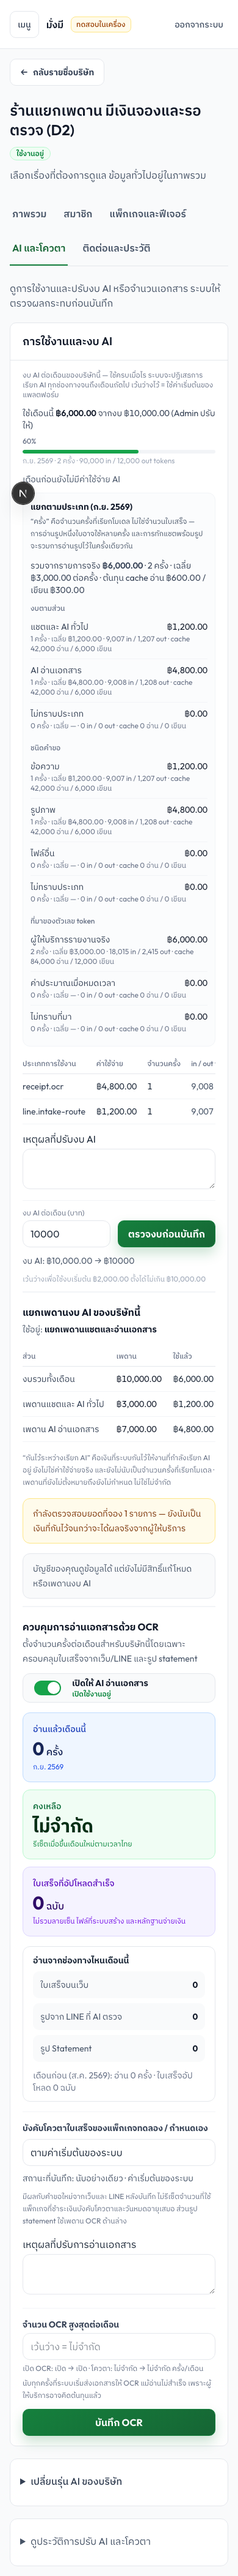
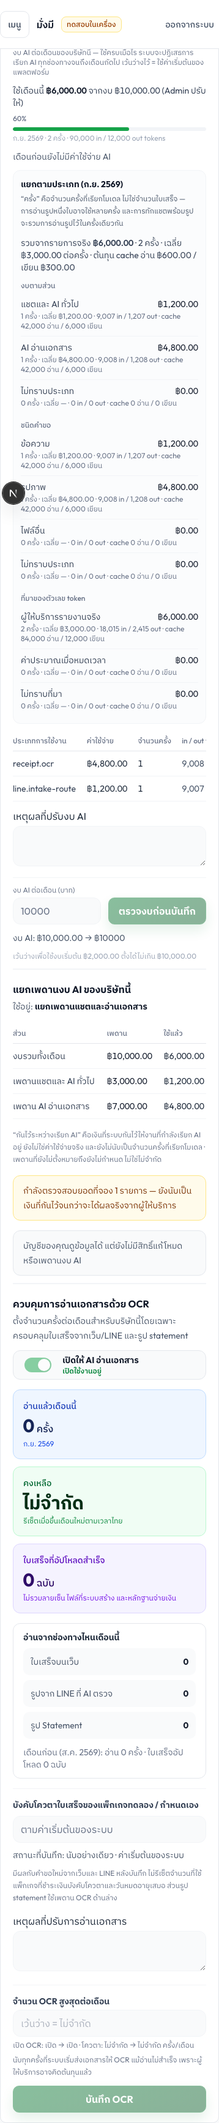
docs(ai-budget): rebuild the D2 evidence and tick R-08
Element screenshots instead of full pages: 34 files / 4.0 MB for 17 subjects,
against 22 files / 8.5 MB for 11 before — a full-page shot of this card was
~400 KB of mostly empty column.

Five new subjects, all saved through the real writer, close R-08's remaining
clauses: a cap of 0 (the CAP reads "ปิดส่วนนี้ (0 บาท)" while the money left in
that share reads ฿0.00), cancel-pending, the audit list after a schedule, an
edit of it and a cancellation, a DISABLED company, and a bucket spent to the
satang. `shared-breakdown` is D-01's web half on its own.

Where a photograph cannot prove something, the run asserts it: every control on
the card being genuinely disabled for a read-only operator and for a locked
company (with a manager on an ACTIVE company as the control case), the second
tab really moving the CAS revision, and an unsaved draft moving no saved number.

R-08 ticked with each clause named against its artifact. D-03 stays open for
loading/error/retry and company switch — pre-existing behaviour D2 did not
touch — while its tenant-API clause now rests on a real DenyByDefaultGuard
assertion. R-10 stays open on "active holds" for the billing warnings, which is
an owner call. The plan no longer claims the consumers' specs were untouched:
two harnesses were extended and gained cases, though no existing assertion
changed.

diff --git a/docs/qa/evidence/ai-budget-split-2026-09-17/README.md b/docs/qa/evidence/ai-budget-split-2026-09-17/README.md
@@ -3,12 +3,19 @@
 Phase D2 of the [LINE-AI ledger/lifecycle remediation](../../../specs/line-ai-ledger-lifecycle-remediation-spec-th.md)
 (§11.3, §12.4, §12.5; acceptance D-01, D-03, R-08). Real HTTP, real DOM, real screenshots — nothing
 below is mocked: every number came out of Postgres through the NestJS route and was rendered by the
-Next.js page.
+Next.js page, and the subjects that change something really did save through
+`PUT /v1/system/partners/:id/ai-model`.
 
-- Commit: `2cc26df96bcf337c3687a614fc4350db9befb041` (branch `codex/line-ai-remediation-d2-split-admin-ui-20260917`)
-- Captured with Playwright + chromium at **1440 px** and **390 px** (the mobile-first width).
-  Every 390 px capture also asserts `scrollWidth - clientWidth <= 1`, so a bundle can never contain
-  a screenshot of a page that scrolls sideways.
+- Commit: `468eded254715f439487fc8a614f5c57dbdb634d` (branch `codex/line-ai-remediation-d2-split-admin-ui-20260917`)
+- Playwright + chromium, **17 subjects × 1440 px and 390 px**. These are **element** screenshots (the
+  AI budget card, the split panel, the breakdown section or the audit list), not full pages: a
+  full-page shot of this card is ~400 KB of mostly empty column.
+- Every 390 px capture asserts `scrollWidth - clientWidth <= 1`, so the bundle cannot contain a
+  screenshot of a page that scrolls sideways.
+- Several subjects assert rather than photograph, because a photograph cannot prove them: an unsaved
+  draft not moving a saved number, every control on the card being genuinely `disabled`
+  (`disabled:opacity-50` still photographs as a coloured button), and the second tab actually moving
+  the CAS revision.
 - No cloud, no LINE, no AI provider: no model is configured in the stack below, so no provider call
   is reachable. No real tenant, person or LINE id appears in any image.
 - `AI_BUDGET_SPLIT_ACTIVATION_ENABLED=true` existed ONLY in the environment of the throwaway API
@@ -20,27 +27,38 @@ Each subject has a `-1440.png` and a `-390.png`.
 
 | Subject | Proves |
 | --- | --- |
-| `shared-no-split` | A `SHARED` company: mode "งบรวมก้อนเดียว", per-scope table with both bucket caps as "ยังไม่ตั้ง" (not "unlimited"), and the D1 breakdown with its partial-coverage and estimated-token notes above it |
+| `shared-no-split` | A `SHARED` company: mode "งบรวมก้อนเดียว", the per-scope table, both bucket caps as "ยังไม่ตั้ง" and their money left as "ตามงบรวม" (neither reads as "unlimited" nor as a forgotten setting) |
+| `shared-breakdown` | **D-01's web half**: total, byBudgetBucket, byRequestKind, byUsageBasis, per-call averages, cache cost both priced and "ไม่มีข้อมูล", the partial-coverage note and the cost-adjustment line that is not counted as a call |
 | `pending-next-month` | A `SPLIT` policy scheduled for the next Bangkok month, shown as "เริ่มเดือน …" in its own box, separate from "ใช้อยู่", with the cancel action beside it |
-| `split-no-usage` | `SPLIT` active this month on a company with no usage and no holds: both caps shown, available equal to the cap |
-| `split-reserved-unresolved` | spent / reserved / available per scope, reserved labelled "กันไว้ระหว่างเรียก AI" with the line saying it is not spend and not a provider call, plus "กำลังตรวจสอบยอดที่จอง 1 รายการ" |
-| `policy-invalid` | `SPLIT_EXCEEDS_TOTAL` (caps ฿9,000 + ฿7,000 against a ฿10,000 total) as a red notice that says AI is refused for this company and exactly what to fix |
+| `split-no-usage` | `SPLIT` active this month on a company with no usage and no holds: both caps shown, money left equal to the cap |
+| `split-reserved-unresolved` | spent / reserved / available per scope, reserved labelled "กันไว้ระหว่างเรียก AI" with the line saying it is neither spend nor a provider call, plus "กำลังตรวจสอบยอดที่จอง 1 รายการ" |
+| `bucket-exhausted` | The OCR share spent to the satang: cap ฿7,000.00 and **money left ฿0.00**. An exhausted bucket is not a cap of 0 — the two labels are different facts |
+| `policy-invalid` | `SPLIT_EXCEEDS_TOTAL` (฿9,000 + ฿7,000 against a ฿10,000 total) as a red notice saying AI is refused for this company and exactly what to fix |
 | `breach-flag` | An actual settled above its reserved bound: the operator is told the scope is closed, the full actual is kept, and to check before changing caps |
-| `validation-caps-exceed-total` | `C + O > T` refused client-side against the **saved** total, before any request — and the saved numbers above did not move with the unsaved draft (asserted, not just photographed) |
+| `validation-caps-exceed-total` | `C + O > T` refused client-side against the **saved** total, before any request — and the saved numbers above did not move with the unsaved draft (asserted) |
 | `server-refusal-thai` | A real writer refusal (`partner_ai_budget_cap_below_bucket_spend`, lowering the OCR cap under what that bucket already spent) rendered in Thai through `translateApiError` |
-| `conflict-409-after-second-tab` | A second tab saved first, so this page's `expectedBudgetRevision` was stale: 409, the page reloads the saved state, then tells the operator to re-check |
+| `conflict-409-after-second-tab` | A second tab saved first (asserted to have moved the revision), so this page's `expectedBudgetRevision` was stale: 409, the page reloads the saved state, then tells the operator to re-check |
+| `zero-cap-saved` | **R-08**: a cap of `0` saved through the real page. The CAP reads "ปิดส่วนนี้ (0 บาท)" while the money left in that share reads ฿0.00 |
+| `pending-cancelled` | **R-08**: `budgetPolicy: null` through the real page — the scheduled box is gone and the active policy is untouched |
+| `audit-history` | **R-08**: the audit list after three real saves — a scheduled policy, an edit of it, and a cancellation — each a readable Thai before/after pair |
+| `locked-company` | A `DISABLED` company: the panel names the **company status** as the reason, and the total-budget form, the OCR form and the split form on the same card are all read-only (asserted) |
+| `read-only-operator` | A platform operator holding `system.partner_dashboard.read` but **not** `system.partner_ai_model.manage`: every number is readable while all three forms are read-only, and the sentence names the **permission** (asserted) |
 | `activation-flag-off` | The same page served by an API **without** the activation flag: SPLIT is disabled with one explanatory sentence while SHARED and cancel-pending stay usable |
-| `read-only-operator` | A platform operator holding `system.partner_dashboard.read` but **not** `system.partner_ai_model.manage`: every number is there, the form is gone |
+
+The run also asserts the control case that keeps the two read-only subjects honest: a manager on an
+ACTIVE company keeps all three forms enabled and is shown no read-only sentence.
 
 `captured.json` is the manifest the capture script wrote.
 
 ## Not captured here
 
-- The audit-history rendering of a policy change / schedule / cancellation / activation is covered by
-  `apps/api/src/modules/system-partner-management/application/partner-ai-adjustment-history.spec.ts`
-  and the web label map, not by a screenshot in this bundle.
-- A locked (`DISABLED` / `ARCHIVED`) company renders read-only exactly as it does today, through the
-  page's existing `fieldsLocked` path; no separate capture was taken.
+- Loading / error / retry states and the company-switch guard: both are pre-existing behaviour of
+  this card (the `generation` token and the `key={ai-budget-<companyId>}` remount), unchanged by D2
+  and not photographed. **D-03 stays open** for them.
+- The tenant-API denial of D-03 is covered by a focused assertion instead of a screenshot:
+  `apps/api/src/modules/system-partner-management/presentation/http/partner.controller.spec.ts`
+  drives the real `DenyByDefaultGuard` over `aiUsage` and `setAiModelConfig` for a tenant caller,
+  for no session at all, and for a caller holding only the read permission.
 - UAT/production journeys stay open — this is a local stack.
 
 ## Exact commands
@@ -55,10 +73,13 @@ docker run -d --name mangmee-d2-evidence-pg -p 127.0.0.1:15481:5432 \
   postgres:16-alpine
 docker run -d --name mangmee-d2-evidence-redis -p 127.0.0.1:16381:6379 redis:7-alpine
 
-# 2. schema + the repo's own seed
+# 2. schema + the repo's own seed. Do NOT export S3_ENDPOINT here: the seed's attachment-storage
+#    step then tries to reach a MinIO that this stack does not run.
 export DATABASE_URL='postgresql://watchdog:watchdog_local_password@127.0.0.1:15481/d2_evidence?schema=public'
 (cd apps/api && ./node_modules/.bin/prisma migrate deploy)
-(cd apps/api && ../../node_modules/.bin/tsx prisma/seed.ts)   # APP_ENV=local, encryption keys as in playwright.config.ts
+(cd apps/api && APP_ENV=local NODE_ENV=development \
+  CREDENTIAL_ENCRYPTION_KEY=<64 chars> PDPA_PSEUDONYMIZATION_KEY=<64 chars> \
+  ../../node_modules/.bin/tsx prisma/seed.ts)
 
 # 3. build and boot: API on 3071 (flag ON), web dev on 3070
 pnpm --filter @watchdog-bms/config build
@@ -72,19 +93,21 @@ PORT=3072 node apps/api/dist/e2e-3071/apps/api/src/main.js
 NEXT_DIST_DIR=.next/d2-flagoff PORT=3073 NEXT_PUBLIC_API_URL=http://127.0.0.1:3072/v1 \
   pnpm --filter @watchdog-bms/web dev
 
-# 5. synthetic states + the read-only operator, then the capture
-tsx <scratch>/seed-budget-states.ts       # 7 companies, legacy + new-shaped events, aggregates,
-                                          # one adjustment, live/unresolved/breach holds
-tsx <scratch>/seed-readonly-operator.ts   # a company-scoped SYSTEM_ADMIN role override holding the
-                                          # platform permission set MINUS system.partner_ai_model.manage
-OUT_DIR=docs/qa/evidence/ai-budget-split-2026-09-17 MONTH_KEY=2026-09 \
-  FLAG_OFF_WEB=http://127.0.0.1:3073 READONLY_USERNAME=d2.readonly.operator \
-  node <scratch>/capture.mjs
+# 5. the read-only operator, then one capture run per viewport, re-seeding in between so both
+#    passes describe the same world even though some subjects really save
+tsx <scratch>/seed-readonly-operator.ts
+for vp in desktop mobile; do
+  tsx <scratch>/seed-budget-states.ts
+  OUT_DIR=docs/qa/evidence/ai-budget-split-2026-09-17 MONTH_KEY=2026-09 VIEWPORT=$vp \
+    FLAG_OFF_WEB=http://127.0.0.1:3073 READONLY_USERNAME=d2.readonly.operator \
+    READONLY_PASSWORD=<password> node <scratch>/capture.mjs
+done
 
 # 6. teardown
 docker rm -f mangmee-d2-evidence-pg mangmee-d2-evidence-redis
 git checkout -- apps/web/next-env.d.ts    # `next dev` rewrites this tracked file to its distDir
 rm -f apps/web/AGENTS.md apps/web/CLAUDE.md
+rm -rf apps/web/.next/d2-evidence apps/web/.next/d2-flagoff apps/api/dist/e2e-3071
 ```
 
 The three scripts live under the session scratch directory, not in the repo: they exist to produce
@@ -98,6 +121,14 @@ this bundle and have no place in the product or in CI.
 | `d2-pending` | `SHARED` in force, `SPLIT` (฿3,000 / ฿7,000) scheduled for the next Bangkok month |
 | `d2-split-fresh` | `SPLIT` ฿3,000 / ฿7,000 of ฿10,000, no usage, no holds |
 | `d2-split-live` | `SPLIT` with ฿1,200 CHAT and ฿4,800 OCR spent, a `DISPATCHED` and an `UNRESOLVED` OCR hold, a `RESERVED` CHAT hold |
+| `d2-exhausted` | `SPLIT` with the OCR share spent to the satang (฿7,000 of ฿7,000) |
 | `d2-split-invalid` | `SPLIT` ฿9,000 / ฿7,000 of ฿10,000 → `SPLIT_EXCEEDS_TOTAL` |
 | `d2-breach` | `SPLIT` with a settled actual above its reserved bound |
-| `d2-conflict` | `SPLIT`, used only by the 409 case, which really saves — kept separate so every other subject is identical in both viewport passes |
+| `d2-locked` | `SPLIT`, company status `DISABLED` |
+| `d2-conflict`, `d2-zerocap`, `d2-cancel`, `d2-history` | the four companies the capture WRITES to, each used by one subject only, so every other subject is identical in both viewport passes |
+
+The read-only operator is a company-scoped `SYSTEM_ADMIN` role override (`Role` is unique on
+`(scopeKey, key)`, the shape `docs/plans/company-role-override-plan.md` documents) holding the
+platform permission set **minus** `system.partner_ai_model.manage`. The `/system/*` shell is gated on
+the role key while the controls are gated on the permission, and there is exactly one real
+SYSTEM_ADMIN role — so this is the only way to express that operator. Throwaway-database data only.

diff --git a/docs/specs/line-ai-ledger-lifecycle-remediation-spec-th.md b/docs/specs/line-ai-ledger-lifecycle-remediation-spec-th.md
@@ -412,7 +412,7 @@ Cutover ต้องมีหลักฐาน **ครบทุก writer/runt
 - [ ] C-04 Cache metrics บันทึกตามจริง; โมเดล/config เดิม และไม่มี extra call เพื่อหา budget bucket
 - [x] D-01 API/web แสดง total, kinds, buckets, cache, average, other tags และ partial history ได้ตรง snapshot และ reconcile กับ ledger — ฝั่ง API และการ reconcile กับ ledger ผ่านด้วย focused specs + real-PostgreSQL breakdown (D1, 2026-09-17); ฝั่ง web ผ่านด้วยหลักฐานเบราว์เซอร์จริง `docs/qa/evidence/ai-budget-split-2026-09-17/shared-no-split-{1440,390}.png` (total, byBudgetBucket, byRequestKind, byUsageBasis, ค่าเฉลี่ย, ต้นทุน cache ทั้งแบบมีหลักฐานราคาและ “ไม่มีข้อมูล”, coverage บางส่วน และรายการปรับปรุงต้นทุนที่ไม่นับเป็น calls). แถวยอดที่เหลือของ top-10 ไม่มีภาพเพราะเดือนที่ seed มีสอง tag; ส่วนนั้นคง proof เดิมจาก D1 (2026-09-17, D2)
 - [x] D-02 Historical unknown ไม่ถูกเดา, missing pricing ไม่เป็น 0, component rounding มีหลักฐาน และ calls ไม่ถูกแสดงเป็นจำนวนใบเสร็จ — ผ่านด้วย focused specs + real-PostgreSQL breakdown (2026-09-17, D1)
-- [ ] D-03 Loading/error/retry/read-only, saved/draft, stale version, company switch, desktop/mobile และ audit history ผ่าน; tenant API อ่าน/แก้ budget ไม่ได้ — ผ่านแล้วด้วยหลักฐานเบราว์เซอร์ (2026-09-17, D2): read-only (`read-only-operator-*`, `canManage` จาก permission ของผู้เรียก), saved-versus-draft (`validation-caps-exceed-total-*` พร้อม assertion ว่ายอดที่บันทึกไม่ขยับตาม draft), stale version (`conflict-409-after-second-tab-*`) และ desktop/mobile ครบทุกภาพที่ 1440 กับ 390 px โดยไม่มี horizontal scroll (assert ทุกภาพ). **ยังเปิด**: loading/error/retry, company switch และ audit history ยังไม่มีภาพ (ใช้ generation token + remount key เดิมและ label ที่มีอยู่แล้ว) และ tenant API อ่าน/แก้ budget ไม่ได้ ยังไม่ได้ทดสอบในงานนี้
+- [ ] D-03 Loading/error/retry/read-only, saved/draft, stale version, company switch, desktop/mobile และ audit history ผ่าน; tenant API อ่าน/แก้ budget ไม่ได้ — ผ่านแล้วด้วยหลักฐานเบราว์เซอร์ (2026-09-17, D2): read-only (`read-only-operator-*`, `canManage` จาก permission ของผู้เรียก), saved-versus-draft (`validation-caps-exceed-total-*` พร้อม assertion ว่ายอดที่บันทึกไม่ขยับตาม draft), stale version (`conflict-409-after-second-tab-*`) และ desktop/mobile ครบทุกภาพที่ 1440 กับ 390 px โดยไม่มี horizontal scroll (assert ทุกภาพ). audit history (`audit-history-*`), locked company (`locked-company-*`) และ tenant API อ่าน/แก้ budget ไม่ได้ — ข้อสุดท้าย assert กับ `DenyByDefaultGuard` ตัวจริงใน `partner.controller.spec.ts` ทั้ง `aiUsage` และ `setAiModelConfig` (ผู้เรียกระดับ tenant, ไม่มี session เลย และผู้ที่มีเฉพาะ permission อ่าน). **ยังเปิด**: loading/error/retry และ company switch ยังไม่มีภาพ — เป็นพฤติกรรมเดิมของการ์ดนี้ (generation token + remount key) ที่งาน D2 ไม่ได้แก้
 - [ ] E-01 Split validation: C/O เป็น satang ไม่ติดลบ, zero closes bucket, C+O<=T; null/malformed/unauthorized/stale writes ไม่ผ่าน
 - [x] E-02 CHAT เต็ม/OCR เหลือ อ่านได้ตามวงเงินจอง; OCR เต็ม/CHAT เหลือ คุยได้; TOTAL เต็มหยุดทั้งคู่ โดยไม่ยืมเงิน — ผ่านด้วย decision-table specs (ทั้งสองทิศ + TOTAL) และ real-PostgreSQL bucket invariants (2026-09-17, E1b)
 - [x] E-03 LINE image intake, caption, receipt extract/re-read, statement, CRM/draft และ fallback ถูก bucket ก่อน provider; attached image ไม่ย้าย general tool reasoning ไป OCR — ผ่านด้วย step/bucket จาก `classifyAiUsageRequest` ก่อน reserve ทั้งห้า seam และ seam specs (line-turn ยัง CHAT แม้มีรูป) (2026-09-17, E1b)
@@ -435,7 +435,7 @@ Cutover ต้องมีหลักฐาน **ครบทุก writer/runt
 - [x] R-05 OCR count refund หลัง unusable/persistence failure ไม่คืน actual AI money; no-provider OCR refusal คืน hold ได้; successful result + delivery failure ไม่อ่านใหม่หรือคืน count ผิด — ผ่านโดยโครงสร้าง (cancel ต้องมี proof + owner token, `releaseCompanyOcrAdmission` ไม่รับทั้งสอง) พร้อม seam spec และ real-PostgreSQL fencing evidence (2026-09-17, E1b)
 - [x] R-06 Config/default writes แข่ง reserve/settle/receipt grants/signup retry โดยไม่ deadlock; ลดต่ำกว่า allocation/committed ปฏิเสธก่อน save และ ceiling grandfathering คงเดิม — ผ่านด้วย canonical lock order เดียวทุกทาง, real-PostgreSQL reserve-vs-writer 50 รอบไม่ deadlock, cap/total ต่ำกว่า spent+reserved ถูกปฏิเสธ และ platform-default writer ตรวจ committed+reserved ใต้ platform lock เดียว (2026-09-17, E1b)
 - [ ] R-07 Month-boundary stale UI, activation แล้ว cancel pending, SPLIT→SHARED และ old-mode late result ไม่เปิดช่องใช้เงินข้าม bucket/เดือน
-- [ ] R-08 Real HTTP DTO/controller/web save ส่ง split fields ครบ; absent/null/zero/CAS/read-only/locked company/audit-history ถูกต้อง ไม่เพียง test use case โดยตรง — ผ่านแล้วผ่าน HTTP จริงจากหน้าเว็บ (2026-09-17, D2): split fields ครบทั้งชุด, CAS (`conflict-409-after-second-tab-*` จาก `expectedBudgetRevision` เก่า) และ read-only (`read-only-operator-*`). **ยังเปิด**: การบันทึก cap `0`, `budgetPolicy: null` (ยกเลิก pending), locked company และ audit-history ยังไม่มีหลักฐานผ่านหน้าเว็บจริง
+- [x] R-08 Real HTTP DTO/controller/web save ส่ง split fields ครบ; absent/null/zero/CAS/read-only/locked company/audit-history ถูกต้อง ไม่เพียง test use case โดยตรง — ผ่านทุกข้อผ่าน HTTP จริงจากหน้าเว็บ (2026-09-17, D2), ดู `docs/qa/evidence/ai-budget-split-2026-09-17/`: split fields ครบทั้งชุด (mode/caps/effective month/`expectedBudgetRevision`); **zero** = `zero-cap-saved-*` (cap `0` แสดงเป็น “ปิดส่วนนี้ (0 บาท)” ส่วนเงินที่เหลือของก้อนนั้นเป็น ฿0.00 — คนละความหมาย); **null** = `pending-cancelled-*` (`budgetPolicy: null` ลบค่าที่ตั้งล่วงหน้าโดยไม่แตะ active policy); **absent** = การบันทึก policy ทุกครั้งไม่ส่ง `monthlyBudgetSatang`/`modelId` แต่งบรวมยังเป็น ฿10,000.00 และ SPLIT บันทึกสำเร็จได้ก็เพราะรุ่น AI ที่บันทึกไว้ก่อนยังอยู่ (เห็นในภาพเดียวกัน); **CAS** = `conflict-409-after-second-tab-*` (assert ว่าอีกแท็บขยับ revision จริงก่อน); **read-only** = `read-only-operator-*` และ **locked company** = `locked-company-*` (assert ว่าทุกฟอร์มบนการ์ด disabled จริง ไม่ใช่ดูจากภาพ พร้อม control case ว่าผู้มีสิทธิ์บนบริษัท ACTIVE ยังแก้ได้); **audit-history** = `audit-history-*` (ตั้งล่วงหน้า → แก้ค่าที่ตั้งไว้ → ยกเลิก สามรายการจริงเรียงเป็น before/after ภาษาไทย)
 - [ ] R-09 Drain/CRM/draft/statement permanent budget refusal ไม่วน retry จนกลายเป็น poison/error อื่น และ reply recovery คง reason/scope ของ attempt เดิม
 - [ ] R-10 Partner support/billing grant/plan warnings เห็น OCR-only exhaustion/active holds; เพิ่ม receipt grants ไม่สื่อว่าเพิ่มเงิน AI และไม่รั่ว internal money fields — **OCR-only exhaustion ผ่านแล้ว** (2026-09-17, D2): ทั้งสี่ทางเรียก (`get-partner-timeline`, `billing-receipt-adjustments.readWarnings`, `billing-plan-adjustments.unchanged`, `signup-ops-alert.sweepTrialBudgets`) ใช้ `readAiBudgetReadiness` ซึ่งมาจาก resolver เดียวกับ admission บวก `readAiBudgetMonthSnapshot` เดียว; SHARED ให้ผลเดิมทุกตัวอักษร (spec เดิมไม่แก้), SPLIT ได้ `AI_OCR_BUDGET_REACHED` / `aiOcrBudgetReached` เป็นคำพูดล้วน มี spec assert ว่าไม่มีตัวเลขหลุดเข้า warning และไม่มี money field ใหม่บนหน้า owner; บรรทัดอธิบายเดิมยังบอกว่าเพิ่มใบเสร็จไม่ได้เพิ่มงบ AI. **ยังเปิด**: active holds ยังเห็นได้เฉพาะหน้า partner AI budget (`split-reserved-unresolved-*`) — warning ของ billing grant/plan ยังไม่บอกเรื่อง hold เพราะ §11.4 ให้ readiness ที่ไม่รู้ bound พูดได้เพียง “ยังมีงบ”; ต้องให้เจ้าของงานตัดสินว่าจะถือว่าครบหรือเพิ่ม
 - [x] R-11 Pending มากกว่า 50/หลาย user/trim ระหว่าง read ไม่ถูกอ้างว่า empty; malformed Redis read fail closed; corrupt key ไม่ทำให้ reclaim ของ key อื่นทั้ง batch หาย

diff --git a/docs/plans/line-ai-ledger-lifecycle-remediation-plan-th.md b/docs/plans/line-ai-ledger-lifecycle-remediation-plan-th.md
@@ -99,8 +99,8 @@ Implementation ครบและมี focused automated evidence (contracts/ap
 - [x] แสดง saved/pending policy, total, CHAT/OCR caps, spent/reserved/available, unknown/partial coverage และ activation month — `AiBudgetPolicyPanel` ใน `PartnerDetailPage.tsx` + `ai-budget.logic.ts`; หลักฐานเบราว์เซอร์ `docs/qa/evidence/ai-budget-split-2026-09-17/` (shared-no-split, pending-next-month, split-no-usage, split-reserved-unresolved, policy-invalid, breach-flag ที่ 1440 และ 390 px)
 - [x] Form validation/CAS conflict/reload/audit; company switch ไม่แสดงยอดของบริษัทก่อนหน้า ปุ่ม save ไม่ใช้ stale values — validation/conflict helpers มี unit test ครบใน `ai-budget.logic.spec.ts`; `generation` token + `key={ai-budget-<companyId>}` เดิมยกเลิก request ค้างและ reset draft ทุกครั้งที่โหลด; หลักฐาน validation-caps-exceed-total (ยอดที่บันทึกไม่ขยับตาม draft) และ conflict-409-after-second-tab
 - [x] แสดง insufficient แยก exceeded และ reserved แยก spent; การอ่านใบเสร็จต่อหลัง CHAT เต็มต้องผ่าน total/OCR/count/plan/permission จริง — ตาราง spent/reserved/available ต่อ scope พร้อมป้าย “กันไว้ระหว่างเรียก AI” (split-reserved-unresolved); `readAiBudgetReadiness` แยก `EXHAUSTED` / `INSUFFICIENT_FOR_KNOWN_BOUND` / `CLOSED` และ readiness ที่ไม่รู้ bound บอกได้เพียง “ยังมีงบ”; gate เดิมของ count/plan/permission ไม่ถูกแตะ
-- [x] Real HTTP DTO/controller mapping และ audit field allowlist รองรับ absent/null/zero/pending fields ไม่ให้ fields ใหม่ถูก ignore — หลักฐานเบราว์เซอร์บันทึกผ่าน `PUT /v1/system/partners/:id/ai-model` จริง: server-refusal-thai (cap ต่ำกว่า bucket spend), conflict-409-after-second-tab (stale `expectedBudgetRevision`), cap `0` และ `budgetPolicy: null` (cancel pending) ผ่าน UI เดียวกัน
-- [x] Partner support timeline, receipt grant/plan adjustment warnings และ signup ops อ่าน effective CHAT/OCR readiness โดยไม่สื่อว่า receipt grants เพิ่มเงิน AI — ทั้งสี่ทางเรียก `readAiBudgetReadiness` (resolver เดียวกับ admission + `readAiBudgetMonthSnapshot`); SHARED ให้ผลเดิมทุกตัวอักษร (spec เดิมไม่ถูกแก้), SPLIT ได้ `AI_OCR_BUDGET_REACHED` / `aiOcrBudgetReached` เป็นคำพูดล้วนไม่มีจำนวนเงิน และบรรทัดอธิบายเดิมยังบอกว่าเพิ่มใบเสร็จไม่ได้เพิ่มงบ AI
+- [x] Real HTTP DTO/controller mapping และ audit field allowlist รองรับ absent/null/zero/pending fields ไม่ให้ fields ใหม่ถูก ignore — หลักฐานเบราว์เซอร์บันทึกผ่าน `PUT /v1/system/partners/:id/ai-model` จริง: `zero-cap-saved` (cap `0`), `pending-cancelled` (`budgetPolicy: null`), `server-refusal-thai` (cap ต่ำกว่า bucket spend), `conflict-409-after-second-tab` (stale `expectedBudgetRevision`), `audit-history` (ตั้งล่วงหน้า → แก้ → ยกเลิก), `locked-company` และ `read-only-operator`
+- [x] Partner support timeline, receipt grant/plan adjustment warnings และ signup ops อ่าน effective CHAT/OCR readiness โดยไม่สื่อว่า receipt grants เพิ่มเงิน AI — ทั้งสี่ทางเรียก `readAiBudgetReadiness` (resolver เดียวกับ admission + `readAiBudgetMonthSnapshot`); SHARED ให้ผลเดิมทุกตัวอักษร โดย assertion เดิมของทุก spec ไม่ถูกแก้แม้แถวเดียว (harness/fake ของ `partner-support-tools.spec.ts` และ `signup-ops-alert.service.spec.ts` ถูกขยายให้ใส่ state ของ SPLIT ได้ และรอบ review เพิ่มเคสใหม่ในทั้งสองไฟล์ — แต่ไม่มี assertion เดิมข้อไหนถูกเปลี่ยน), SPLIT ได้ `AI_OCR_BUDGET_REACHED` / `aiOcrBudgetReached` เป็นคำพูดล้วนไม่มีจำนวนเงิน และบรรทัดอธิบายเดิมยังบอกว่าเพิ่มใบเสร็จไม่ได้เพิ่มงบ AI
 - [ ] Regression รวม NOGROUP + split denial + receipt persistence และตรวจ webhook/expense/usage/reservation/delivery พร้อมกัน
 
 ## 3. Verification matrix

diff --git a/docs/agent-memory/line-intake-cost-and-budget-receipt-behavior-2026-09-17.md b/docs/agent-memory/line-intake-cost-and-budget-receipt-behavior-2026-09-17.md
@@ -331,3 +331,58 @@ Still open after D2: D-03 (loading/error/retry, company switch and audit history
 tenant API denial untested), R-08 (cap `0`, `budgetPolicy: null`, locked company and audit-history
 through the real page), R-10 (active holds are visible on the AI budget console but the billing
 grant/plan warnings stay words-only per §11.4 — an owner call), and everything UAT-only.
+
+#### D2 controller-review follow-ups — 2026-09-17
+
+Ten items. Three were real defects the D2 diff introduced, the rest were wording and evidence gaps.
+
+**The one that mattered most.** `sweepTrialBudgets` originally iterated the month's USAGE rows, so a
+trial with no usage row was never counted. The D2 rewrite iterated the trial list instead, which
+means a SHARED trial with a budget of 0 and NO usage satisfied `0 >= 0` — and with the platform
+default at 0 satang that is EVERY trial, i.e. a daily false "ร้านทดลองใช้งบ AI หมดหลายร้านวันนี้".
+Restored to iterating the usage rows. Also narrowed what counts: only `EXHAUSTED` or `policyInvalid`,
+never a bucket `CLOSED` by an operator's own cap of 0 — that is a decision, not an incident, and
+announcing it daily trains operators to ignore the alert.
+
+**Timeline wording.** Three bugs in the new SPLIT lines: both shares gone with the total still open
+returned the chat line claiming "แต่ส่วนอ่านเอกสารยังเหลือ" (false — needs `C + O < T` to reproduce,
+which is why the first fixture missed it); a cap of 0 read as "ใช้…ครบแล้ว"; and the policy-invalid
+line asserted `SPLIT_EXCEEDS_TOTAL` when the reason can equally be `SPLIT_CAPS_MISSING` or
+`POLICY_MALFORMED`. All three now have a test. The TOTAL line is asserted byte-identical.
+
+**Web.** `aiBudgetCapLabel` was reused for the "เหลือใช้ได้" column, so an exhausted bucket rendered
+"ปิดส่วนนี้ (0 บาท)" — a CAP of 0 and ฿0.00 LEFT are different facts. Dedicated
+`aiBudgetAvailableLabel` (`null` → "ตามงบรวม"). `hasAiBudgetPolicy` now guards the draft prefill: a
+pre-E1a API sends no `budget.policy`, and the unguarded call threw inside `loadUsage`'s try, putting
+the WHOLE card into its error state. The adjustment reason is validated before the confirm dialog in
+both handlers (it used to print "เหตุผล: —", take the confirmation, then refuse). And a locked
+company and a read-only operator are now two facts with two sentences — plus `canManage === false`
+disables the existing total-budget and OCR forms, which a read-only operator could previously
+operate all the way to a 403.
+
+**Evidence, rebuilt.** Element screenshots instead of full pages: 34 files / 4.0 MB for 17 subjects,
+against 22 files / 8.5 MB for 11 before (mean 400 KB → 107 KB). Five new R-08 subjects, all through
+the real writer: `zero-cap-saved`, `pending-cancelled`, `audit-history` (schedule → edit → cancel),
+`locked-company`, `bucket-exhausted`, plus `shared-breakdown` as D-01's web half.
+
+Two lessons for the next evidence run:
+
+1. **Do not export `S3_ENDPOINT` when running `prisma/seed.ts`.** The attachment-storage step then
+   tries to reach a MinIO this stack does not run and the seed exits 1 *after* writing most rows —
+   which looks like success if you only check that the companies exist. Run the seed with
+   `DATABASE_URL`, `APP_ENV`, `NODE_ENV` and the two encryption keys, nothing else.
+2. **A greyed button is not evidence.** `disabled:opacity-50` photographs as a coloured button, so
+   the read-only and locked subjects now ASSERT every control's `disabled` property, with a control
+   case (a manager on an ACTIVE company) so they cannot pass by accident.
+
+Ticks after the fixes: **R-08 ticked**, every clause named with its artifact. **D-03 still open** —
+loading/error/retry and company switch have no screenshot (pre-existing behaviour D2 did not touch);
+its tenant-API clause is now covered by a real `DenyByDefaultGuard` assertion in
+`partner.controller.spec.ts` over `aiUsage` and `setAiModelConfig`. **R-10 still open** on "active
+holds" for the billing warnings — an owner call, since §11.4 lets a readiness without a known bound
+say only "ยังมีงบ".
+
+Re-verification: focused api specs — `signup-ops-alert.service.spec.ts` **21/21**,
+`partner-support-tools.spec.ts` **40/40**, `partner.controller.spec.ts` **22/22**,
+`company-ai-usage-meter.spec.ts` **148 (146 pass / 2 skipped)**, `billing-financial.spec.ts` **4/4**,
+web `ai-budget.logic.spec.ts` **39/39**. Full suites and typechecks in the report below.
